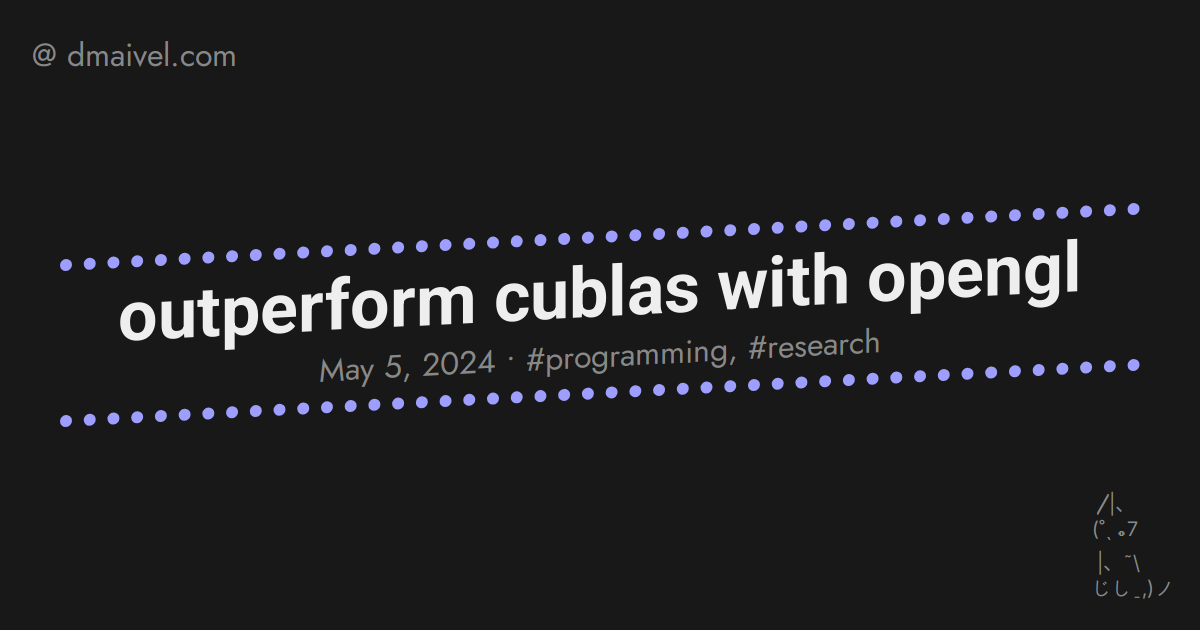
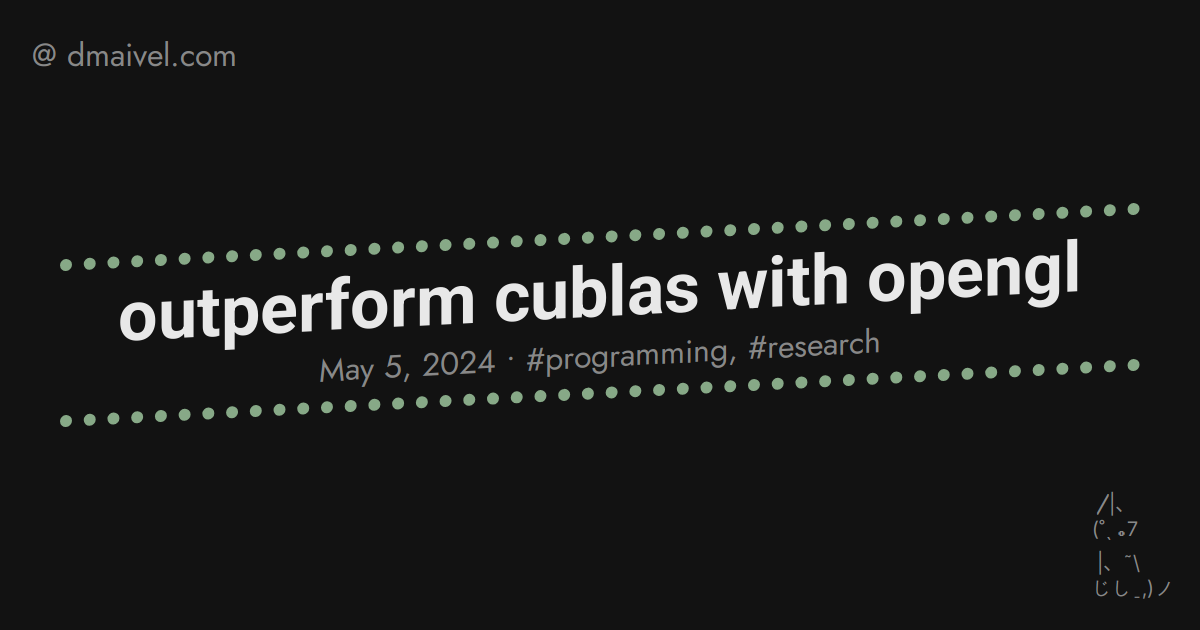
new accents

Changed region(s): [[0.0308, 0.573, 0.9558, 0.6937], [0.0308, 0.3016, 0.9558, 0.4222]]

diff --git a/layouts/_default/single.html b/layouts/_default/single.html
@@ -26,8 +26,8 @@
   <div class="landscape-check" style="color: #ff5e6c; border: 1px solid #ff5e6c; padding: 4px; margin-bottom: 12px;">
     viewing in landscape mode is advised
   </div>
-  <h1 style="margin-bottom: 0; margin-top: -8px; transform: skewY(-2deg); transform-origin: top; text-decoration: underline dotted #9e9eff; -webkit-text-decoration: underline dotted #9e9eff; text-align: center">{{ .Title }}</h1>
-  <div style="font-family: Roboto, sans-serif; color: #aaa; transform: skewY(-2deg); transform-origin: top; text-align: center">
+  <h1 style="margin-bottom: 0; margin-top: -8px; transform: skewY(-2deg) translate(-0.5rem); transform-origin: top; text-decoration: underline dotted #87a987; -webkit-text-decoration: underline dotted #87a987; text-align: center">{{ .Title }}</h1>
+  <div style="font-family: Roboto, sans-serif; color: #aaa; transform: skewY(-2deg) translate(-0.5rem); transform-origin: top; text-align: center">
     {{ .Date.Format "Jan 2, 2006" }} • {{ .WordCount }} words • {{ .ReadingTime }} mins • {{ if .Params.tags }}
       #{{ delimit .Params.tags ", #" }}
     {{ end }}

diff --git a/layouts/partials/nav.html b/layouts/partials/nav.html
@@ -40,7 +40,7 @@
         color: #ddd;
     }
     .home:hover {
-        color: #9e9eff;
+        color: #87a987;
     }
 </style>
 
@@ -48,8 +48,8 @@
     <!-- <a href="/" class="nav-link">
         <img src="https://img.icons8.com/ios-filled/50/eeeeee/home.png" alt="Home" class="nav-icon">
     </a> -->
-    <h2 style="margin-bottom: 0; margin-top: 0; text-decoration: underline; text-decoration-color: #9e9eff; text-decoration-thickness: 6px;">
-        <a class="home" href="/" style="text-decoration-color: #9e9eff;">dmaivel</a>
+    <h2 style="margin-bottom: 0; margin-top: 0; text-decoration: underline; text-decoration-color: #87a987; text-decoration-thickness: 6px;">
+        <a class="home" href="/" style="text-decoration-color: #87a987;">dmaivel</a>
     </h2>
     <div style="justify-content: center; display: flex">
         <a href="https://github.com/dmaivel" target="_blank" class="nav-link">

diff --git a/layouts/shortcodes/note.html b/layouts/shortcodes/note.html
@@ -9,4 +9,4 @@
       id="note-{{ .Ordinal }}" 
       class="note-content" 
       role="region" 
-      aria-hidden="true">{{ .Inner | markdownify }}</span></span></span><span class="sidenote-version"><span class="sidenote-trigger" style="text-decoration: underline; text-decoration-style: solid; text-decoration-thickness: 2px; text-decoration-color: #9e9eff;">{{ .Get "title" | markdownify }}</span><span class="sidenote"><small>{{ .Inner | .Page.RenderString }}</small></span></span>
+      aria-hidden="true">{{ .Inner | markdownify }}</span></span></span><span class="sidenote-version"><span class="sidenote-trigger" style="text-decoration: underline; text-decoration-style: solid; text-decoration-thickness: 2px; text-decoration-color: #87a987;">{{ .Get "title" | markdownify }}</span><span class="sidenote"><small>{{ .Inner | .Page.RenderString }}</small></span></span>

diff --git a/og_image_template.html b/og_image_template.html
@@ -7,17 +7,17 @@ body {
     padding-left: 24px;
     padding-top: 24px;
     padding-right: 24px;
-    background-color: #181818;
+    background-color: #121212;
 }
 
 * {
-    color: #eee;
+    color: #e8e8e8;
 }
 
 h1 {
     font-size: 150px;
     font-family: "Roboto", sans-serif;
-    text-decoration: underline solid #9e9eff;
+    text-decoration: underline solid #87a987;
     margin-bottom: 0px;
 }
 
@@ -45,7 +45,7 @@ h3 {
 p {
     font-family: "Roboto";
     transform: skewY(-3deg);
-    /* text-decoration: underline dotted #9e9eff; */
+    /* text-decoration: underline dotted #87a987; */
     font-size: 70px;
     font-weight: bold;
     text-align: center;
@@ -56,7 +56,7 @@ p {
 hr { 
     border: none; 
     height: 0; 
-    border-top: 12px dotted #9e9eff; 
+    border-top: 12px dotted #87a987; 
     transform: skewY(-3deg);
 }
 

diff --git a/layouts/_default/baseof.html b/layouts/_default/baseof.html
@@ -50,11 +50,11 @@ html {
     padding: 0 10px;
     margin: 50px auto;
     margin-top: 20px;
-    max-width: 850px;
+    max-width: 800px;
     text-align: left;
     font-family: RobotoSlab, sans-serif;
-    background-color: #181818;
-    color: #e0e0e0
+    background-color: #121212;
+    color: #e8e8e8
   }
 
   h1, h2, h3, h4, h5, h6, .post-date, .post-tag {
@@ -82,7 +82,7 @@ html {
   }
 
   a {
-    color: #9e9eff;
+    color: #87a987;
   }
 
   #suggestions {
@@ -139,7 +139,7 @@ html {
   .note {
     /* display: inline-block; */
     position: relative;
-    color: #9e9eff;
+    color: #87a987;
     /*color: ;*/
     font-size: inherit;
   }

diff --git a/static/css/vs-dark.css b/static/css/vs-dark.css
@@ -1,4 +1,4 @@
-/* Background */ .chroma { color: #d4d4d4; background-color: #1e1e1e; }
+/* Background */ .chroma { color: #d4d4d4; background-color: #181818; }
 
 /* LineTableTD */ .chroma .lntd { vertical-align: top; padding: 0; margin: 0; border: 0; }
 /* LineTable */ .chroma .lntable { border-spacing: 0; padding: 0; margin: 0; border: 0; width: 100%; overflow: auto; display: block; }
